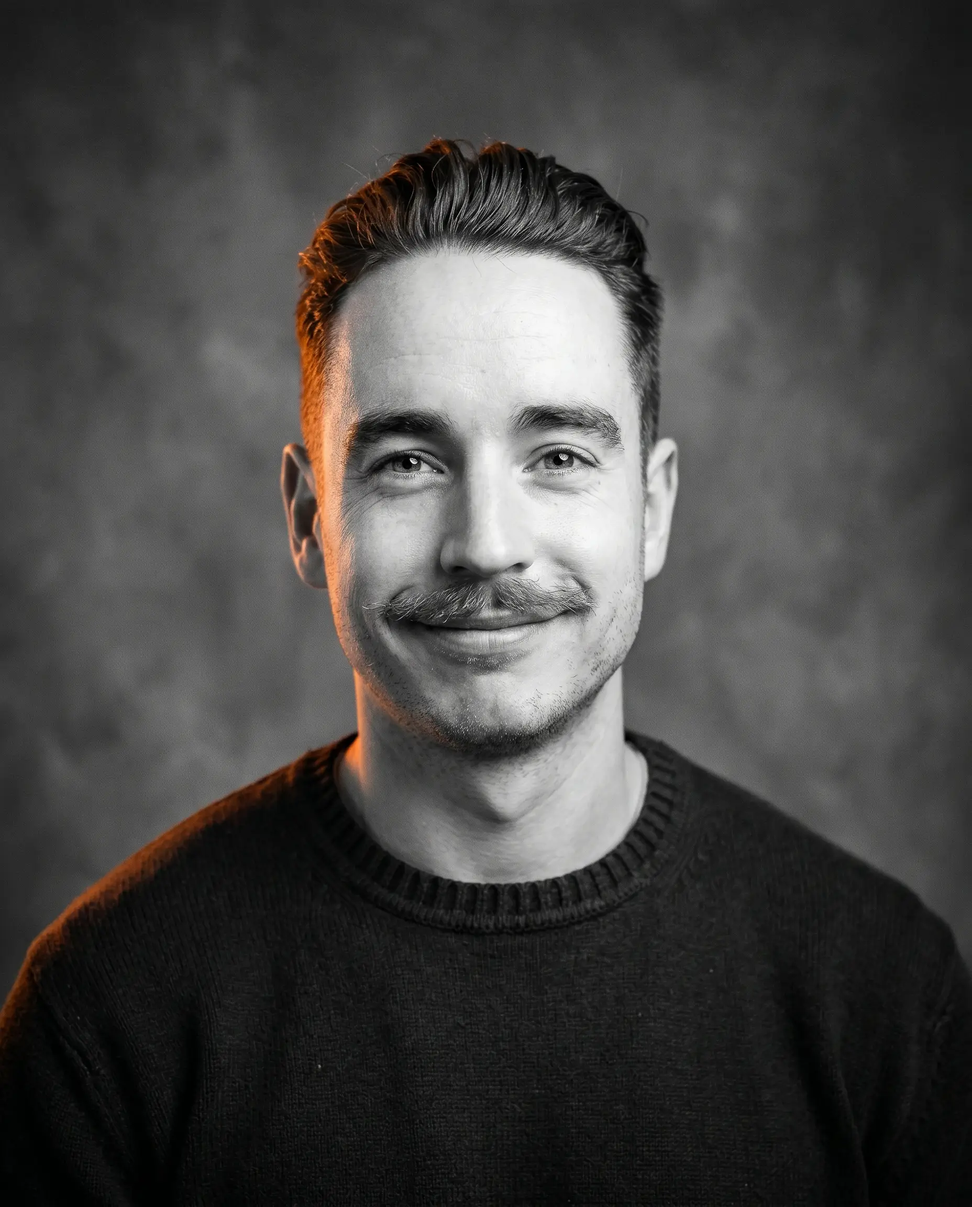
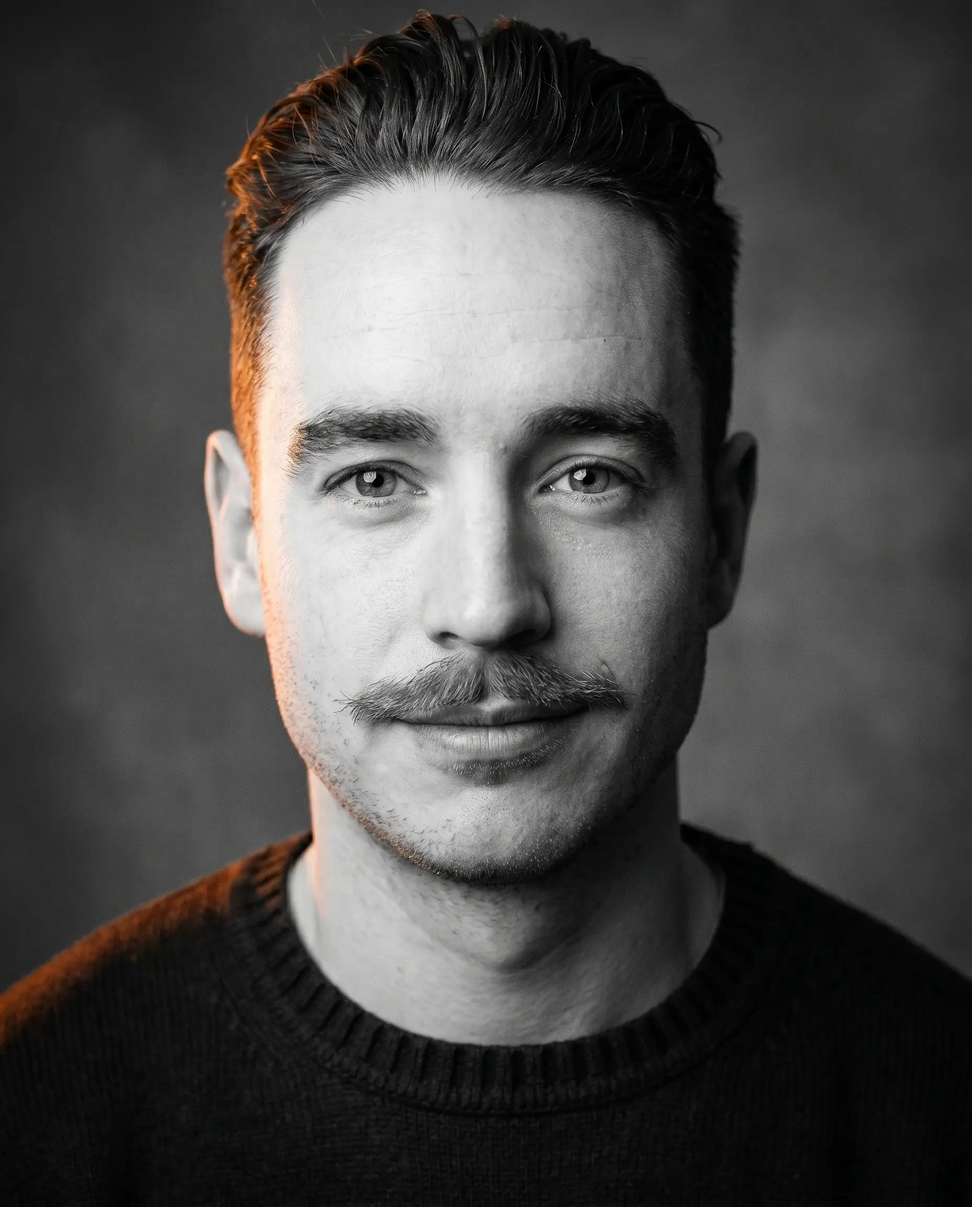
Tighten Louis headshot + add Chris Burrell headshot
Re-crop Louis Dashiell to the tight headshot framing to match the set; add
Chris Burrell's brand-styled headshot (recipe + orange rim) and point his card
at the new file (was referencing a missing image, falling back to initials).

Claude-Session: https://claude.ai/code/session_01Xdb7zDbyLPyXMVARSe5KE5

diff --git a/meet-the-team.html b/meet-the-team.html
@@ -2394,7 +2394,7 @@ footer {
 
       <article class="team-card">
         <div class="team-avatar" data-initials="CB">
-          <img src="/assets/team-chris-burell.jpg" alt="Chris Burrell" loading="lazy" onerror="this.remove()" />
+          <img src="/assets/team-chris-burrell.webp" alt="Chris Burrell" loading="lazy" onerror="this.remove()" />
         </div>
         <div class="team-card-body">
           <div class="team-name">Chris Burrell</div>
